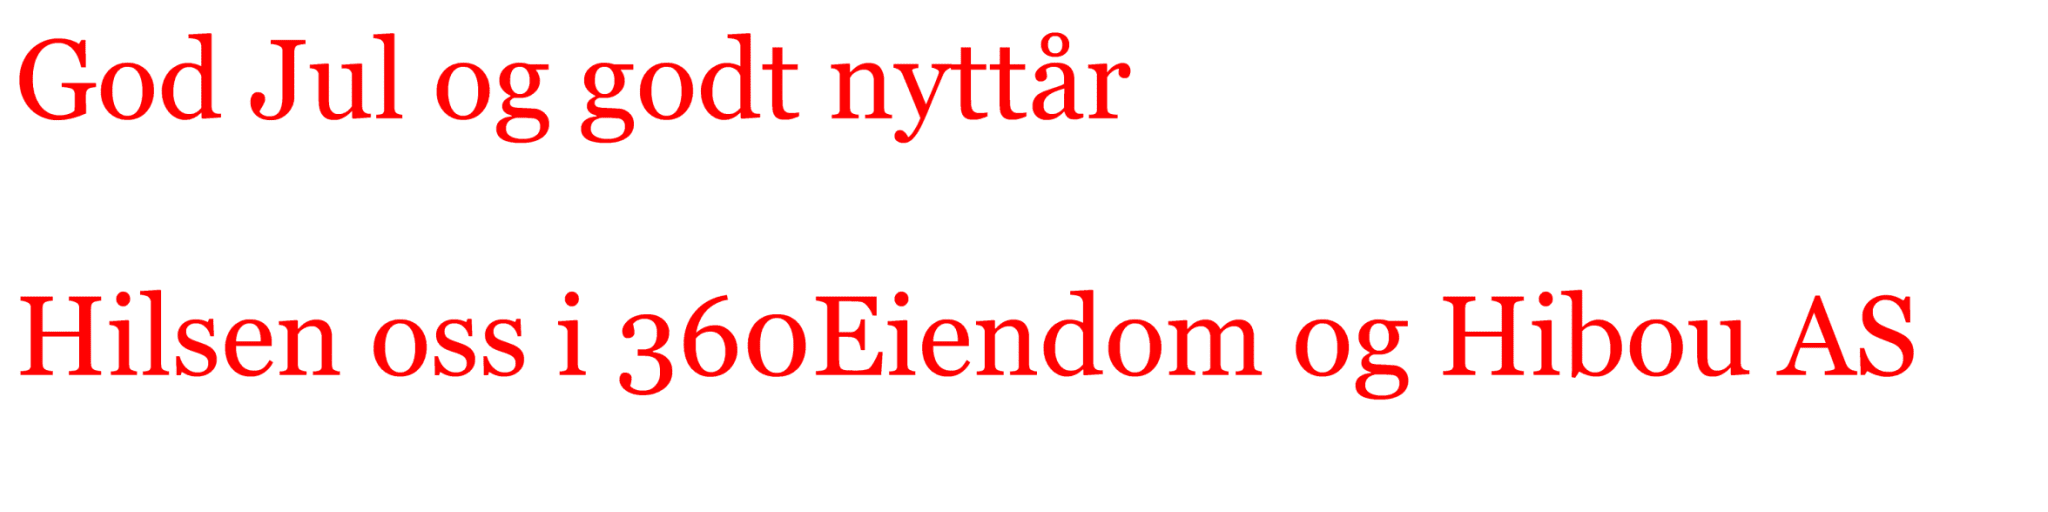
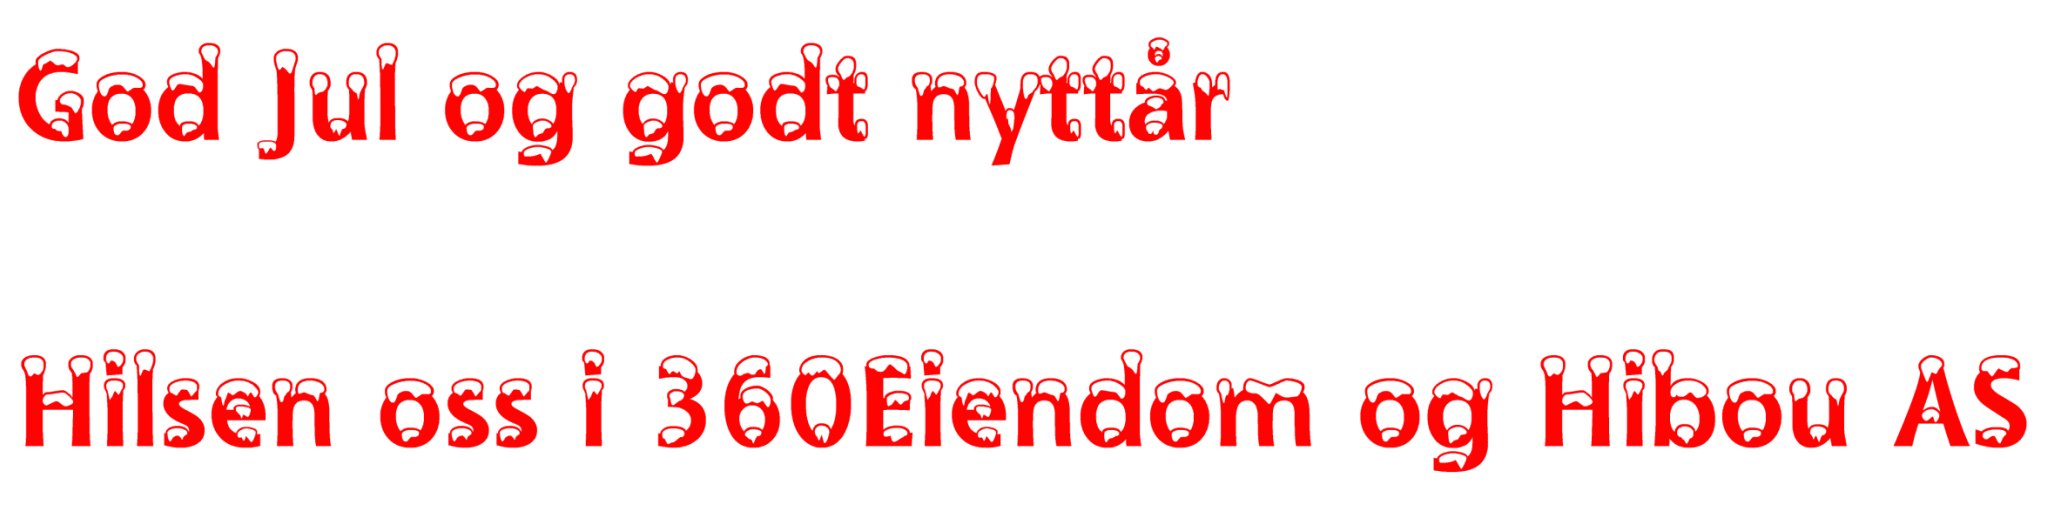
more christmasy font

diff --git a/julehilsen/script_general.js b/julehilsen/script_general.js
@@ -243,7 +243,7 @@
         player['get']('data')['translateObjs'] = a;
         return d;
     }
-    var b = {"scrollBarWidth":10,"paddingBottom":0,"id":"rootPlayer","gap":10,"verticalAlign":"top","width":"100%","paddingLeft":0,"start":"this.init()","backgroundOpacity":1,"children":["this.MainViewer"],"backgroundPreloadEnabled":true,"scrollBarColor":"#000000","paddingRight":0,"borderRadius":0,"definitions": [{"partial":false,"label":trans('panorama_8D966106_8691_281A_41DA_60CD8653C84E.label'),"frames":[{"class":"CubicPanoramaFrame","cube":{"class":"ImageResource","levels":[{"class":"TiledImageResourceLevel","width":24576,"colCount":48,"url":"media/panorama_8D966106_8691_281A_41DA_60CD8653C84E_0/{face}/0/{row}_{column}.jpg","rowCount":8,"tags":"ondemand","height":4096},{"class":"TiledImageResourceLevel","width":12288,"colCount":24,"url":"media/panorama_8D966106_8691_281A_41DA_60CD8653C84E_0/{face}/1/{row}_{column}.jpg","rowCount":4,"tags":"ondemand","height":2048},{"class":"TiledImageResourceLevel","width":6144,"colCount":12,"url":"media/panorama_8D966106_8691_281A_41DA_60CD8653C84E_0/{face}/2/{row}_{column}.jpg","rowCount":2,"tags":"ondemand","height":1024},{"class":"TiledImageResourceLevel","width":3072,"colCount":6,"url":"media/panorama_8D966106_8691_281A_41DA_60CD8653C84E_0/{face}/3/{row}_{column}.jpg","rowCount":1,"tags":["ondemand","preload"],"height":512},{"class":"TiledImageResourceLevel","width":9216,"colCount":6,"url":"media/panorama_8D966106_8691_281A_41DA_60CD8653C84E_0/{face}/vr/0.jpg","rowCount":1,"tags":"mobilevr","height":1536}]},"thumbnailUrl":"media/panorama_8D966106_8691_281A_41DA_60CD8653C84E_t.jpg"}],"id":"panorama_8D966106_8691_281A_41DA_60CD8653C84E","thumbnailUrl":"media/panorama_8D966106_8691_281A_41DA_60CD8653C84E_t.jpg","vfov":120,"hfov":360,"pitch":0,"audios":["this.audio_97849971_8690_F8F6_41DE_85A20917D60F"],"overlays":["this.overlay_8ABD97C0_8691_2816_41D5_A66701826902","this.overlay_9775BD43_8691_181A_41D3_41D6AD8634CC"],"class":"Panorama","data":{"label":"shutterstock_1271979601"},"hfovMax":130},{"class":"PanoramaAudio","loop":false,"audio":"this.audiores_973CCE29_8691_3816_41C2_DF5B6D062538","data":{"label":"414673__lena-orsa__a-christmas-tale"},"id":"audio_97849971_8690_F8F6_41DE_85A20917D60F","autoplay":true},{"class":"PanoramaPlayer","touchControlMode":"drag_rotation","gyroscopeVerticalDraggingEnabled":true,"surfaceSelectionEnabled":false,"viewerArea":"this.MainViewer","mouseControlMode":"drag_rotation","id":"MainViewerPanoramaPlayer","zoomEnabled":true,"arrowKeysAction":"translate","displayPlaybackBar":true},{"class":"PanoramaCamera","initialPosition":{"class":"PanoramaCameraPosition","yaw":0,"pitch":0},"automaticZoomSpeed":10,"id":"panorama_8D966106_8691_281A_41DA_60CD8653C84E_camera","initialSequence":"this.sequence_8F52B8D5_8691_F83E_41C4_08F459ABFD6E"},{"subtitlesTextShadowVerticalLength":1,"progressBottom":0,"data":{"name":"Main Viewer"},"progressBackgroundColorRatios":[0],"id":"MainViewer","playbackBarHeadHeight":15,"playbackBarProgressBackgroundColor":["#3399FF"],"width":"100%","playbackBarHeadShadowColor":"#000000","playbackBarProgressBorderRadius":0,"progressRight":0,"progressBackgroundColorDirection":"vertical","doubleClickAction":"toggle_fullscreen","toolTipBackgroundColor":"#F6F6F6","playbackBarHeadBackgroundColorRatios":[0,1],"progressLeft":0,"transitionMode":"blending","transitionDuration":500,"playbackBarHeadShadowOpacity":0.7,"subtitlesFontFamily":"Arial","progressOpacity":1,"borderSize":0,"playbackBarHeadShadowHorizontalLength":0,"progressHeight":10,"toolTipShadowOpacity":1,"progressBarBackgroundColorDirection":"vertical","playbackBarHeadBorderSize":0,"subtitlesPaddingTop":5,"toolTipShadowVerticalLength":0,"playbackBarHeadShadow":true,"height":"100%","toolTipShadowBlurRadius":3,"subtitlesShadow":false,"toolTipBorderRadius":3,"toolTipDisplayTime":600,"playbackBarProgressBackgroundColorRatios":[0],"playbackBarHeadOpacity":1,"toolTipFontStyle":"normal","progressBorderSize":0,"playbackBarBorderColor":"#FFFFFF","toolTipShadowColor":"#333333","propagateClick":false,"subtitlesTextShadowHorizontalLength":1,"toolTipTextShadowColor":"#000000","subtitlesBackgroundColor":"#000000","toolTipFontFamily":"Arial","shadow":false,"playbackBarBorderRadius":0,"playbackBarOpacity":1,"progressBarBorderRadius":0,"progressBorderColor":"#000000","playbackBarProgressBorderColor":"#000000","paddingTop":0,"toolTipBorderSize":1,"paddingBottom":0,"subtitlesHorizontalAlign":"center","toolTipPaddingTop":4,"playbackBarHeadBackgroundColor":["#111111","#666666"],"vrPointerSelectionTime":2000,"firstTransitionDuration":0,"progressBarBackgroundColor":["#3399FF"],"subtitlesBorderSize":0,"toolTipFontSize":"1.11vmin","subtitlesOpacity":1,"subtitlesTop":0,"playbackBarBottom":5,"playbackBarHeadShadowVerticalLength":0,"paddingLeft":0,"subtitlesFontColor":"#FFFFFF","subtitlesTextShadowOpacity":1,"subtitlesVerticalAlign":"bottom","progressBarBorderColor":"#000000","toolTipPaddingLeft":6,"toolTipTextShadowOpacity":0,"playbackBarProgressBackgroundColorDirection":"vertical","surfaceReticleSelectionColor":"#FFFFFF","paddingRight":0,"surfaceReticleSelectionOpacity":1,"borderRadius":0,"subtitlesFontWeight":"normal","progressBarBorderSize":0,"playbackBarHeadBorderRadius":0,"toolTipFontColor":"#606060","playbackBarBackgroundColor":["#FFFFFF"],"subtitlesTextShadowColor":"#000000","playbackBarProgressOpacity":1,"displayTooltipInTouchScreens":true,"progressBackgroundOpacity":1,"progressBackgroundColor":["#FFFFFF"],"class":"ViewerArea","vrPointerColor":"#FFFFFF","playbackBarHeadBackgroundColorDirection":"vertical","playbackBarHeight":10,"subtitlesFontSize":"3vmin","playbackBarHeadBorderColor":"#000000","playbackBarBorderSize":0,"playbackBarHeadWidth":6,"surfaceReticleColor":"#FFFFFF","toolTipFontWeight":"normal","toolTipPaddingBottom":4,"subtitlesPaddingRight":5,"surfaceReticleOpacity":0.6,"subtitlesPaddingBottom":5,"progressBarOpacity":1,"toolTipBorderColor":"#767676","minHeight":50,"playbackBarBackgroundOpacity":1,"minWidth":100,"toolTipHorizontalAlign":"center","toolTipShadowSpread":0,"subtitlesGap":0,"subtitlesBackgroundOpacity":0.2,"progressBorderRadius":0,"subtitlesBottom":50,"toolTipTextShadowBlurRadius":3,"subtitlesBorderColor":"#FFFFFF","subtitlesPaddingLeft":5,"subtitlesTextDecoration":"none","playbackBarProgressBorderSize":0,"vrPointerSelectionColor":"#FF6600","toolTipOpacity":1,"toolTipShadowHorizontalLength":0,"displayTooltipInSurfaceSelection":true,"playbackBarBackgroundColorDirection":"vertical","playbackBarHeadShadowBlurRadius":3,"playbackBarLeft":0,"toolTipPaddingRight":6,"progressBarBackgroundColorRatios":[0],"playbackBarRight":0,"subtitlesTextShadowBlurRadius":0},{"class":"PlayList","items":[{"class":"PanoramaPlayListItem","media":"this.panorama_8D966106_8691_281A_41DA_60CD8653C84E","end":"this.trigger('tourEnded')","player":"this.MainViewerPanoramaPlayer","camera":"this.panorama_8D966106_8691_281A_41DA_60CD8653C84E_camera"}],"id":"mainPlayList"},{"class":"SnowPanoramaOverlay","id":"overlay_8ABD97C0_8691_2816_41D5_A66701826902","intensity":0.36,"speed":0.25},{"class":"HotspotPanoramaOverlay","rollOverDisplay":false,"areas":["this.HotspotPanoramaOverlayArea_9775FD43_8691_181A_41D9_7D9581EE1602"],"useHandCursor":true,"enabledInCardboard":true,"items":[{"image":{"class":"ImageResource","levels":[{"class":"ImageResourceLevel","url":"media/panorama_8D966106_8691_281A_41DA_60CD8653C84E_HS_gu936f0t.png","width":2048,"height":512}]},"pitch":-24.41,"yaw":112.67,"hfov":62.22,"data":{"label":"Text"},"class":"HotspotPanoramaOverlayImage","distance":50}],"id":"overlay_9775BD43_8691_181A_41D3_41D6AD8634CC","data":{"label":"Text"},"maps":[]},{"class":"AudioResource","oggUrl":"media/audio_97849971_8690_F8F6_41DE_85A20917D60F.ogg","id":"audiores_973CCE29_8691_3816_41C2_DF5B6D062538","mp3Url":"media/audio_97849971_8690_F8F6_41DE_85A20917D60F.mp3"},{"class":"PanoramaCameraSequence","movements":[{"class":"DistancePanoramaCameraMovement","easing":"cubic_in","yawDelta":18.5,"yawSpeed":7.96},{"class":"DistancePanoramaCameraMovement","easing":"linear","yawDelta":323,"yawSpeed":7.96},{"class":"DistancePanoramaCameraMovement","easing":"cubic_out","yawDelta":18.5,"yawSpeed":7.96}],"id":"sequence_8F52B8D5_8691_F83E_41C4_08F459ABFD6E","restartMovementOnUserInteraction":false},{"class":"HotspotPanoramaOverlayArea","mapColor":"any","id":"HotspotPanoramaOverlayArea_9775FD43_8691_181A_41D9_7D9581EE1602"}],"desktopMipmappingEnabled":false,"horizontalAlign":"left","overflow":"hidden","borderSize":0,"defaultVRPointer":"laser","class":"Player","scrollBarMargin":2,"backgroundColor":["#FFFFFF"],"vrPolyfillScale":0.75,"mediaActivationMode":"window","contentOpaque":false,"scripts":{"updateVideoCues":TDV.Tour.Script.updateVideoCues,"visibleComponentsIfPlayerFlagEnabled":TDV.Tour.Script.visibleComponentsIfPlayerFlagEnabled,"pauseGlobalAudio":TDV.Tour.Script.pauseGlobalAudio,"registerKey":TDV.Tour.Script.registerKey,"pauseGlobalAudios":TDV.Tour.Script.pauseGlobalAudios,"autotriggerAtStart":TDV.Tour.Script.autotriggerAtStart,"playAudioList":TDV.Tour.Script.playAudioList,"changeBackgroundWhilePlay":TDV.Tour.Script.changeBackgroundWhilePlay,"playGlobalAudioWhilePlay":TDV.Tour.Script.playGlobalAudioWhilePlay,"unregisterKey":TDV.Tour.Script.unregisterKey,"changePlayListWithSameSpot":TDV.Tour.Script.changePlayListWithSameSpot,"playGlobalAudio":TDV.Tour.Script.playGlobalAudio,"existsKey":TDV.Tour.Script.existsKey,"cloneCamera":TDV.Tour.Script.cloneCamera,"copyObjRecursively":TDV.Tour.Script.copyObjRecursively,"quizSetItemFound":TDV.Tour.Script.quizSetItemFound,"setValue":TDV.Tour.Script.setValue,"quizShowQuestion":TDV.Tour.Script.quizShowQuestion,"executeFunctionWhenChange":TDV.Tour.Script.executeFunctionWhenChange,"getPixels":TDV.Tour.Script.getPixels,"quizShowScore":TDV.Tour.Script.quizShowScore,"init":TDV.Tour.Script.init,"setLocale":TDV.Tour.Script.setLocale,"getActiveMediaWithViewer":TDV.Tour.Script.getActiveMediaWithViewer,"getActivePlayerWithViewer":TDV.Tour.Script.getActivePlayerWithViewer,"resumePlayers":TDV.Tour.Script.resumePlayers,"quizShowTimeout":TDV.Tour.Script.quizShowTimeout,"getCurrentPlayerWithMedia":TDV.Tour.Script.getCurrentPlayerWithMedia,"resumeGlobalAudios":TDV.Tour.Script.resumeGlobalAudios,"getCurrentPlayers":TDV.Tour.Script.getCurrentPlayers,"mixObject":TDV.Tour.Script.mixObject,"quizStart":TDV.Tour.Script.quizStart,"getGlobalAudio":TDV.Tour.Script.getGlobalAudio,"stopGlobalAudio":TDV.Tour.Script.stopGlobalAudio,"quizFinish":TDV.Tour.Script.quizFinish,"stopGlobalAudios":TDV.Tour.Script.stopGlobalAudios,"stopTextToSpeech":TDV.Tour.Script.stopTextToSpeech,"getKey":TDV.Tour.Script.getKey,"sendAnalyticsData":TDV.Tour.Script.sendAnalyticsData,"setCameraSameSpotAsMedia":TDV.Tour.Script.setCameraSameSpotAsMedia,"getMediaByName":TDV.Tour.Script.getMediaByName,"getMediaFromPlayer":TDV.Tour.Script.getMediaFromPlayer,"setComponentVisibility":TDV.Tour.Script.setComponentVisibility,"getMediaWidth":TDV.Tour.Script.getMediaWidth,"textToSpeech":TDV.Tour.Script.textToSpeech,"getMediaHeight":TDV.Tour.Script.getMediaHeight,"setEndToItemIndex":TDV.Tour.Script.setEndToItemIndex,"getOverlays":TDV.Tour.Script.getOverlays,"getPanoramaOverlayByName":TDV.Tour.Script.getPanoramaOverlayByName,"setMainMediaByIndex":TDV.Tour.Script.setMainMediaByIndex,"openLink":TDV.Tour.Script.openLink,"setMainMediaByName":TDV.Tour.Script.setMainMediaByName,"setMapLocation":TDV.Tour.Script.setMapLocation,"getComponentByName":TDV.Tour.Script.getComponentByName,"_getPlayListsWithViewer":TDV.Tour.Script._getPlayListsWithViewer,"getPlayListsWithMedia":TDV.Tour.Script.getPlayListsWithMedia,"setMediaBehaviour":TDV.Tour.Script.setMediaBehaviour,"getPlayListWithItem":TDV.Tour.Script.getPlayListWithItem,"setPanoramaCameraWithCurrentSpot":TDV.Tour.Script.setPanoramaCameraWithCurrentSpot,"setOverlayBehaviour":TDV.Tour.Script.setOverlayBehaviour,"getFirstPlayListWithMedia":TDV.Tour.Script.getFirstPlayListWithMedia,"setPanoramaCameraWithSpot":TDV.Tour.Script.setPanoramaCameraWithSpot,"getPlayListItems":TDV.Tour.Script.getPlayListItems,"setSurfaceSelectionHotspotMode":TDV.Tour.Script.setSurfaceSelectionHotspotMode,"getPlayListItemByMedia":TDV.Tour.Script.getPlayListItemByMedia,"historyGoBack":TDV.Tour.Script.historyGoBack,"setStartTimeVideo":TDV.Tour.Script.setStartTimeVideo,"historyGoForward":TDV.Tour.Script.historyGoForward,"setStartTimeVideoSync":TDV.Tour.Script.setStartTimeVideoSync,"fixTogglePlayPauseButton":TDV.Tour.Script.fixTogglePlayPauseButton,"htmlToPlainText":TDV.Tour.Script.htmlToPlainText,"skip3DTransitionOnce":TDV.Tour.Script.skip3DTransitionOnce,"shareSocial":TDV.Tour.Script.shareSocial,"getMainViewer":TDV.Tour.Script.getMainViewer,"initGA":TDV.Tour.Script.initGA,"showComponentsWhileMouseOver":TDV.Tour.Script.showComponentsWhileMouseOver,"initQuiz":TDV.Tour.Script.initQuiz,"showPopupMedia":TDV.Tour.Script.showPopupMedia,"_initSplitViewer":TDV.Tour.Script._initSplitViewer,"showPopupImage":TDV.Tour.Script.showPopupImage,"assignObjRecursively":TDV.Tour.Script.assignObjRecursively,"showPopupPanoramaOverlay":TDV.Tour.Script.showPopupPanoramaOverlay,"isCardboardViewMode":TDV.Tour.Script.isCardboardViewMode,"showPopupPanoramaVideoOverlay":TDV.Tour.Script.showPopupPanoramaVideoOverlay,"_initTwinsViewer":TDV.Tour.Script._initTwinsViewer,"isPanorama":TDV.Tour.Script.isPanorama,"showWindow":TDV.Tour.Script.showWindow,"keepCompVisible":TDV.Tour.Script.keepCompVisible,"startPanoramaWithCamera":TDV.Tour.Script.startPanoramaWithCamera,"_initItemWithComps":TDV.Tour.Script._initItemWithComps,"stopAndGoCamera":TDV.Tour.Script.stopAndGoCamera,"translate":TDV.Tour.Script.translate,"syncPlaylists":TDV.Tour.Script.syncPlaylists,"loadFromCurrentMediaPlayList":TDV.Tour.Script.loadFromCurrentMediaPlayList,"_initTTSTooltips":TDV.Tour.Script._initTTSTooltips,"textToSpeechComponent":TDV.Tour.Script.textToSpeechComponent,"openEmbeddedPDF":TDV.Tour.Script.openEmbeddedPDF,"triggerOverlay":TDV.Tour.Script.triggerOverlay,"pauseCurrentPlayers":TDV.Tour.Script.pauseCurrentPlayers,"updateDeepLink":TDV.Tour.Script.updateDeepLink,"pauseGlobalAudiosWhilePlayItem":TDV.Tour.Script.pauseGlobalAudiosWhilePlayItem,"updateMediaLabelFromPlayList":TDV.Tour.Script.updateMediaLabelFromPlayList},"minHeight":20,"downloadEnabled":false,"backgroundColorRatios":[0],"minWidth":20,"toolTipHorizontalAlign":"center","scrollBarOpacity":0.5,"propagateClick":false,"mouseWheelEnabled":true,"layout":"absolute","scrollBarVisible":"rollOver","mobileMipmappingEnabled":false,"shadow":false,"paddingTop":0,"data":{"name":"Player832","defaultLocale":"en","textToSpeechConfig":{"speechOnInfoWindow":false,"pitch":1,"speechOnTooltip":false,"speechOnQuizQuestion":false,"volume":1,"rate":1},"locales":{"en":"locale/en.txt"}},"backgroundColorDirection":"vertical","height":"100%"};
+    var b = {"scrollBarWidth":10,"paddingBottom":0,"id":"rootPlayer","gap":10,"verticalAlign":"top","width":"100%","paddingLeft":0,"start":"this.init()","backgroundOpacity":1,"children":["this.MainViewer"],"backgroundPreloadEnabled":true,"scrollBarColor":"#000000","paddingRight":0,"borderRadius":0,"definitions": [{"partial":false,"label":trans('panorama_8D966106_8691_281A_41DA_60CD8653C84E.label'),"frames":[{"class":"CubicPanoramaFrame","cube":{"class":"ImageResource","levels":[{"class":"TiledImageResourceLevel","width":24576,"colCount":48,"url":"media/panorama_8D966106_8691_281A_41DA_60CD8653C84E_0/{face}/0/{row}_{column}.jpg","rowCount":8,"tags":"ondemand","height":4096},{"class":"TiledImageResourceLevel","width":12288,"colCount":24,"url":"media/panorama_8D966106_8691_281A_41DA_60CD8653C84E_0/{face}/1/{row}_{column}.jpg","rowCount":4,"tags":"ondemand","height":2048},{"class":"TiledImageResourceLevel","width":6144,"colCount":12,"url":"media/panorama_8D966106_8691_281A_41DA_60CD8653C84E_0/{face}/2/{row}_{column}.jpg","rowCount":2,"tags":"ondemand","height":1024},{"class":"TiledImageResourceLevel","width":3072,"colCount":6,"url":"media/panorama_8D966106_8691_281A_41DA_60CD8653C84E_0/{face}/3/{row}_{column}.jpg","rowCount":1,"tags":["ondemand","preload"],"height":512},{"class":"TiledImageResourceLevel","width":9216,"colCount":6,"url":"media/panorama_8D966106_8691_281A_41DA_60CD8653C84E_0/{face}/vr/0.jpg","rowCount":1,"tags":"mobilevr","height":1536}]},"thumbnailUrl":"media/panorama_8D966106_8691_281A_41DA_60CD8653C84E_t.jpg"}],"id":"panorama_8D966106_8691_281A_41DA_60CD8653C84E","thumbnailUrl":"media/panorama_8D966106_8691_281A_41DA_60CD8653C84E_t.jpg","vfov":120,"hfov":360,"pitch":0,"audios":["this.audio_97849971_8690_F8F6_41DE_85A20917D60F"],"overlays":["this.overlay_8ABD97C0_8691_2816_41D5_A66701826902","this.overlay_9775BD43_8691_181A_41D3_41D6AD8634CC"],"class":"Panorama","data":{"label":"shutterstock_1271979601"},"hfovMax":130},{"class":"PanoramaAudio","loop":false,"audio":"this.audiores_973CCE29_8691_3816_41C2_DF5B6D062538","data":{"label":"414673__lena-orsa__a-christmas-tale"},"id":"audio_97849971_8690_F8F6_41DE_85A20917D60F","autoplay":true},{"class":"PanoramaCamera","initialPosition":{"class":"PanoramaCameraPosition","yaw":0,"pitch":0},"automaticZoomSpeed":10,"id":"panorama_8D966106_8691_281A_41DA_60CD8653C84E_camera","initialSequence":"this.sequence_8F52B8D5_8691_F83E_41C4_08F459ABFD6E"},{"subtitlesTextShadowVerticalLength":1,"progressBottom":0,"data":{"name":"Main Viewer"},"progressBackgroundColorRatios":[0],"id":"MainViewer","playbackBarHeadHeight":15,"playbackBarProgressBackgroundColor":["#3399FF"],"width":"100%","playbackBarHeadShadowColor":"#000000","playbackBarProgressBorderRadius":0,"progressRight":0,"progressBackgroundColorDirection":"vertical","doubleClickAction":"toggle_fullscreen","toolTipBackgroundColor":"#F6F6F6","playbackBarHeadBackgroundColorRatios":[0,1],"progressLeft":0,"transitionMode":"blending","transitionDuration":500,"playbackBarHeadShadowOpacity":0.7,"subtitlesFontFamily":"Arial","progressOpacity":1,"borderSize":0,"playbackBarHeadShadowHorizontalLength":0,"progressHeight":10,"toolTipShadowOpacity":1,"progressBarBackgroundColorDirection":"vertical","playbackBarHeadBorderSize":0,"subtitlesPaddingTop":5,"toolTipShadowVerticalLength":0,"playbackBarHeadShadow":true,"height":"100%","toolTipShadowBlurRadius":3,"subtitlesShadow":false,"toolTipBorderRadius":3,"toolTipDisplayTime":600,"playbackBarProgressBackgroundColorRatios":[0],"playbackBarHeadOpacity":1,"toolTipFontStyle":"normal","progressBorderSize":0,"playbackBarBorderColor":"#FFFFFF","toolTipShadowColor":"#333333","propagateClick":false,"subtitlesTextShadowHorizontalLength":1,"toolTipTextShadowColor":"#000000","subtitlesBackgroundColor":"#000000","toolTipFontFamily":"Arial","shadow":false,"playbackBarBorderRadius":0,"playbackBarOpacity":1,"progressBarBorderRadius":0,"progressBorderColor":"#000000","playbackBarProgressBorderColor":"#000000","paddingTop":0,"toolTipBorderSize":1,"paddingBottom":0,"subtitlesHorizontalAlign":"center","toolTipPaddingTop":4,"playbackBarHeadBackgroundColor":["#111111","#666666"],"vrPointerSelectionTime":2000,"firstTransitionDuration":0,"progressBarBackgroundColor":["#3399FF"],"subtitlesBorderSize":0,"toolTipFontSize":"1.11vmin","subtitlesOpacity":1,"subtitlesTop":0,"playbackBarBottom":5,"playbackBarHeadShadowVerticalLength":0,"paddingLeft":0,"subtitlesFontColor":"#FFFFFF","subtitlesTextShadowOpacity":1,"subtitlesVerticalAlign":"bottom","progressBarBorderColor":"#000000","toolTipPaddingLeft":6,"toolTipTextShadowOpacity":0,"playbackBarProgressBackgroundColorDirection":"vertical","surfaceReticleSelectionColor":"#FFFFFF","paddingRight":0,"surfaceReticleSelectionOpacity":1,"borderRadius":0,"subtitlesFontWeight":"normal","progressBarBorderSize":0,"playbackBarHeadBorderRadius":0,"toolTipFontColor":"#606060","playbackBarBackgroundColor":["#FFFFFF"],"subtitlesTextShadowColor":"#000000","playbackBarProgressOpacity":1,"displayTooltipInTouchScreens":true,"progressBackgroundOpacity":1,"progressBackgroundColor":["#FFFFFF"],"class":"ViewerArea","vrPointerColor":"#FFFFFF","playbackBarHeadBackgroundColorDirection":"vertical","playbackBarHeight":10,"subtitlesFontSize":"3vmin","playbackBarHeadBorderColor":"#000000","playbackBarBorderSize":0,"playbackBarHeadWidth":6,"surfaceReticleColor":"#FFFFFF","toolTipFontWeight":"normal","toolTipPaddingBottom":4,"subtitlesPaddingRight":5,"surfaceReticleOpacity":0.6,"subtitlesPaddingBottom":5,"progressBarOpacity":1,"toolTipBorderColor":"#767676","minHeight":50,"playbackBarBackgroundOpacity":1,"minWidth":100,"toolTipHorizontalAlign":"center","toolTipShadowSpread":0,"subtitlesGap":0,"subtitlesBackgroundOpacity":0.2,"progressBorderRadius":0,"subtitlesBottom":50,"toolTipTextShadowBlurRadius":3,"subtitlesBorderColor":"#FFFFFF","subtitlesPaddingLeft":5,"subtitlesTextDecoration":"none","playbackBarProgressBorderSize":0,"vrPointerSelectionColor":"#FF6600","toolTipOpacity":1,"toolTipShadowHorizontalLength":0,"displayTooltipInSurfaceSelection":true,"playbackBarBackgroundColorDirection":"vertical","playbackBarHeadShadowBlurRadius":3,"playbackBarLeft":0,"toolTipPaddingRight":6,"progressBarBackgroundColorRatios":[0],"playbackBarRight":0,"subtitlesTextShadowBlurRadius":0},{"class":"PanoramaPlayer","touchControlMode":"drag_rotation","gyroscopeVerticalDraggingEnabled":true,"surfaceSelectionEnabled":false,"viewerArea":"this.MainViewer","mouseControlMode":"drag_rotation","id":"MainViewerPanoramaPlayer","zoomEnabled":true,"arrowKeysAction":"translate","displayPlaybackBar":true},{"class":"PlayList","items":[{"class":"PanoramaPlayListItem","media":"this.panorama_8D966106_8691_281A_41DA_60CD8653C84E","end":"this.trigger('tourEnded')","player":"this.MainViewerPanoramaPlayer","camera":"this.panorama_8D966106_8691_281A_41DA_60CD8653C84E_camera"}],"id":"mainPlayList"},{"class":"SnowPanoramaOverlay","id":"overlay_8ABD97C0_8691_2816_41D5_A66701826902","intensity":0.36,"speed":0.25},{"class":"HotspotPanoramaOverlay","rollOverDisplay":false,"areas":["this.HotspotPanoramaOverlayArea_9775FD43_8691_181A_41D9_7D9581EE1602"],"useHandCursor":true,"enabledInCardboard":true,"items":[{"image":{"class":"ImageResource","levels":[{"class":"ImageResourceLevel","url":"media/panorama_8D966106_8691_281A_41DA_60CD8653C84E_HS_gu936f0t.png","width":2048,"height":512}]},"pitch":-24.41,"yaw":112.67,"hfov":62.22,"data":{"label":"Text"},"class":"HotspotPanoramaOverlayImage","distance":50}],"id":"overlay_9775BD43_8691_181A_41D3_41D6AD8634CC","data":{"label":"Text"},"maps":[]},{"class":"AudioResource","oggUrl":"media/audio_97849971_8690_F8F6_41DE_85A20917D60F.ogg","id":"audiores_973CCE29_8691_3816_41C2_DF5B6D062538","mp3Url":"media/audio_97849971_8690_F8F6_41DE_85A20917D60F.mp3"},{"class":"PanoramaCameraSequence","movements":[{"class":"DistancePanoramaCameraMovement","easing":"cubic_in","yawDelta":18.5,"yawSpeed":7.96},{"class":"DistancePanoramaCameraMovement","easing":"linear","yawDelta":323,"yawSpeed":7.96},{"class":"DistancePanoramaCameraMovement","easing":"cubic_out","yawDelta":18.5,"yawSpeed":7.96}],"id":"sequence_8F52B8D5_8691_F83E_41C4_08F459ABFD6E","restartMovementOnUserInteraction":false},{"class":"HotspotPanoramaOverlayArea","mapColor":"any","id":"HotspotPanoramaOverlayArea_9775FD43_8691_181A_41D9_7D9581EE1602"}],"desktopMipmappingEnabled":false,"horizontalAlign":"left","overflow":"hidden","borderSize":0,"defaultVRPointer":"laser","class":"Player","scrollBarMargin":2,"backgroundColor":["#FFFFFF"],"vrPolyfillScale":0.75,"mediaActivationMode":"window","contentOpaque":false,"scripts":{"updateVideoCues":TDV.Tour.Script.updateVideoCues,"visibleComponentsIfPlayerFlagEnabled":TDV.Tour.Script.visibleComponentsIfPlayerFlagEnabled,"pauseGlobalAudio":TDV.Tour.Script.pauseGlobalAudio,"registerKey":TDV.Tour.Script.registerKey,"pauseGlobalAudios":TDV.Tour.Script.pauseGlobalAudios,"autotriggerAtStart":TDV.Tour.Script.autotriggerAtStart,"playAudioList":TDV.Tour.Script.playAudioList,"changeBackgroundWhilePlay":TDV.Tour.Script.changeBackgroundWhilePlay,"playGlobalAudioWhilePlay":TDV.Tour.Script.playGlobalAudioWhilePlay,"unregisterKey":TDV.Tour.Script.unregisterKey,"changePlayListWithSameSpot":TDV.Tour.Script.changePlayListWithSameSpot,"playGlobalAudio":TDV.Tour.Script.playGlobalAudio,"existsKey":TDV.Tour.Script.existsKey,"cloneCamera":TDV.Tour.Script.cloneCamera,"copyObjRecursively":TDV.Tour.Script.copyObjRecursively,"quizSetItemFound":TDV.Tour.Script.quizSetItemFound,"setValue":TDV.Tour.Script.setValue,"quizShowQuestion":TDV.Tour.Script.quizShowQuestion,"executeFunctionWhenChange":TDV.Tour.Script.executeFunctionWhenChange,"getPixels":TDV.Tour.Script.getPixels,"quizShowScore":TDV.Tour.Script.quizShowScore,"init":TDV.Tour.Script.init,"setLocale":TDV.Tour.Script.setLocale,"getActiveMediaWithViewer":TDV.Tour.Script.getActiveMediaWithViewer,"getActivePlayerWithViewer":TDV.Tour.Script.getActivePlayerWithViewer,"resumePlayers":TDV.Tour.Script.resumePlayers,"quizShowTimeout":TDV.Tour.Script.quizShowTimeout,"getCurrentPlayerWithMedia":TDV.Tour.Script.getCurrentPlayerWithMedia,"resumeGlobalAudios":TDV.Tour.Script.resumeGlobalAudios,"getCurrentPlayers":TDV.Tour.Script.getCurrentPlayers,"mixObject":TDV.Tour.Script.mixObject,"quizStart":TDV.Tour.Script.quizStart,"getGlobalAudio":TDV.Tour.Script.getGlobalAudio,"stopGlobalAudio":TDV.Tour.Script.stopGlobalAudio,"quizFinish":TDV.Tour.Script.quizFinish,"stopGlobalAudios":TDV.Tour.Script.stopGlobalAudios,"stopTextToSpeech":TDV.Tour.Script.stopTextToSpeech,"getKey":TDV.Tour.Script.getKey,"sendAnalyticsData":TDV.Tour.Script.sendAnalyticsData,"setCameraSameSpotAsMedia":TDV.Tour.Script.setCameraSameSpotAsMedia,"getMediaByName":TDV.Tour.Script.getMediaByName,"getMediaFromPlayer":TDV.Tour.Script.getMediaFromPlayer,"setComponentVisibility":TDV.Tour.Script.setComponentVisibility,"getMediaWidth":TDV.Tour.Script.getMediaWidth,"textToSpeech":TDV.Tour.Script.textToSpeech,"getMediaHeight":TDV.Tour.Script.getMediaHeight,"setEndToItemIndex":TDV.Tour.Script.setEndToItemIndex,"getOverlays":TDV.Tour.Script.getOverlays,"getPanoramaOverlayByName":TDV.Tour.Script.getPanoramaOverlayByName,"setMainMediaByIndex":TDV.Tour.Script.setMainMediaByIndex,"openLink":TDV.Tour.Script.openLink,"setMainMediaByName":TDV.Tour.Script.setMainMediaByName,"setMapLocation":TDV.Tour.Script.setMapLocation,"getComponentByName":TDV.Tour.Script.getComponentByName,"_getPlayListsWithViewer":TDV.Tour.Script._getPlayListsWithViewer,"getPlayListsWithMedia":TDV.Tour.Script.getPlayListsWithMedia,"setMediaBehaviour":TDV.Tour.Script.setMediaBehaviour,"getPlayListWithItem":TDV.Tour.Script.getPlayListWithItem,"setPanoramaCameraWithCurrentSpot":TDV.Tour.Script.setPanoramaCameraWithCurrentSpot,"setOverlayBehaviour":TDV.Tour.Script.setOverlayBehaviour,"getFirstPlayListWithMedia":TDV.Tour.Script.getFirstPlayListWithMedia,"setPanoramaCameraWithSpot":TDV.Tour.Script.setPanoramaCameraWithSpot,"getPlayListItems":TDV.Tour.Script.getPlayListItems,"setSurfaceSelectionHotspotMode":TDV.Tour.Script.setSurfaceSelectionHotspotMode,"getPlayListItemByMedia":TDV.Tour.Script.getPlayListItemByMedia,"historyGoBack":TDV.Tour.Script.historyGoBack,"setStartTimeVideo":TDV.Tour.Script.setStartTimeVideo,"historyGoForward":TDV.Tour.Script.historyGoForward,"setStartTimeVideoSync":TDV.Tour.Script.setStartTimeVideoSync,"fixTogglePlayPauseButton":TDV.Tour.Script.fixTogglePlayPauseButton,"htmlToPlainText":TDV.Tour.Script.htmlToPlainText,"skip3DTransitionOnce":TDV.Tour.Script.skip3DTransitionOnce,"shareSocial":TDV.Tour.Script.shareSocial,"getMainViewer":TDV.Tour.Script.getMainViewer,"initGA":TDV.Tour.Script.initGA,"showComponentsWhileMouseOver":TDV.Tour.Script.showComponentsWhileMouseOver,"initQuiz":TDV.Tour.Script.initQuiz,"showPopupMedia":TDV.Tour.Script.showPopupMedia,"_initSplitViewer":TDV.Tour.Script._initSplitViewer,"showPopupImage":TDV.Tour.Script.showPopupImage,"assignObjRecursively":TDV.Tour.Script.assignObjRecursively,"showPopupPanoramaOverlay":TDV.Tour.Script.showPopupPanoramaOverlay,"isCardboardViewMode":TDV.Tour.Script.isCardboardViewMode,"showPopupPanoramaVideoOverlay":TDV.Tour.Script.showPopupPanoramaVideoOverlay,"_initTwinsViewer":TDV.Tour.Script._initTwinsViewer,"isPanorama":TDV.Tour.Script.isPanorama,"showWindow":TDV.Tour.Script.showWindow,"keepCompVisible":TDV.Tour.Script.keepCompVisible,"startPanoramaWithCamera":TDV.Tour.Script.startPanoramaWithCamera,"_initItemWithComps":TDV.Tour.Script._initItemWithComps,"stopAndGoCamera":TDV.Tour.Script.stopAndGoCamera,"translate":TDV.Tour.Script.translate,"syncPlaylists":TDV.Tour.Script.syncPlaylists,"loadFromCurrentMediaPlayList":TDV.Tour.Script.loadFromCurrentMediaPlayList,"_initTTSTooltips":TDV.Tour.Script._initTTSTooltips,"textToSpeechComponent":TDV.Tour.Script.textToSpeechComponent,"openEmbeddedPDF":TDV.Tour.Script.openEmbeddedPDF,"triggerOverlay":TDV.Tour.Script.triggerOverlay,"pauseCurrentPlayers":TDV.Tour.Script.pauseCurrentPlayers,"updateDeepLink":TDV.Tour.Script.updateDeepLink,"pauseGlobalAudiosWhilePlayItem":TDV.Tour.Script.pauseGlobalAudiosWhilePlayItem,"updateMediaLabelFromPlayList":TDV.Tour.Script.updateMediaLabelFromPlayList},"minHeight":20,"downloadEnabled":false,"backgroundColorRatios":[0],"minWidth":20,"toolTipHorizontalAlign":"center","scrollBarOpacity":0.5,"propagateClick":false,"mouseWheelEnabled":true,"layout":"absolute","scrollBarVisible":"rollOver","mobileMipmappingEnabled":false,"shadow":false,"paddingTop":0,"data":{"name":"Player832","defaultLocale":"en","textToSpeechConfig":{"speechOnInfoWindow":false,"pitch":1,"speechOnTooltip":false,"speechOnQuizQuestion":false,"volume":1,"rate":1},"locales":{"en":"locale/en.txt"}},"backgroundColorDirection":"vertical","height":"100%"};
     if (b['data'] == undefined)
         b['data'] = {};
     b['data']['translateObjs'] = a;

diff --git a/julehilsen/index.html b/julehilsen/index.html
@@ -4,14 +4,14 @@
     <title>Untitled 5</title>
     <meta http-equiv="Content-Type" content="text/html; charset=UTF-8" />
     <meta name="viewport" id="metaViewport" content="user-scalable=no, initial-scale=1, width=device-width, viewport-fit=cover" data-tdv-general-scale="0.5"/>
-    <link rel="preload" href="script.js?v=1608578595414" as="script"/>
-	<link rel="preload" href="media/panorama_8D966106_8691_281A_41DA_60CD8653C84E_0/r/3/0_0.jpg?v=1608578595414" as="image"/>
-	<link rel="preload" href="media/panorama_8D966106_8691_281A_41DA_60CD8653C84E_0/l/3/0_0.jpg?v=1608578595414" as="image"/>
-	<link rel="preload" href="media/panorama_8D966106_8691_281A_41DA_60CD8653C84E_0/u/3/0_0.jpg?v=1608578595414" as="image"/>
-	<link rel="preload" href="media/panorama_8D966106_8691_281A_41DA_60CD8653C84E_0/d/3/0_0.jpg?v=1608578595414" as="image"/>
-	<link rel="preload" href="media/panorama_8D966106_8691_281A_41DA_60CD8653C84E_0/f/3/0_0.jpg?v=1608578595414" as="image"/>
-	<link rel="preload" href="media/panorama_8D966106_8691_281A_41DA_60CD8653C84E_0/b/3/0_0.jpg?v=1608578595414" as="image"/>
-	<link rel="preload" href="locale/en.txt?v=1608578595414" as="fetch" crossorigin="anonymous"/>
+    <link rel="preload" href="script.js?v=1608579084424" as="script"/>
+	<link rel="preload" href="media/panorama_8D966106_8691_281A_41DA_60CD8653C84E_0/r/3/0_0.jpg?v=1608579084424" as="image"/>
+	<link rel="preload" href="media/panorama_8D966106_8691_281A_41DA_60CD8653C84E_0/l/3/0_0.jpg?v=1608579084424" as="image"/>
+	<link rel="preload" href="media/panorama_8D966106_8691_281A_41DA_60CD8653C84E_0/u/3/0_0.jpg?v=1608579084424" as="image"/>
+	<link rel="preload" href="media/panorama_8D966106_8691_281A_41DA_60CD8653C84E_0/d/3/0_0.jpg?v=1608579084424" as="image"/>
+	<link rel="preload" href="media/panorama_8D966106_8691_281A_41DA_60CD8653C84E_0/f/3/0_0.jpg?v=1608579084424" as="image"/>
+	<link rel="preload" href="media/panorama_8D966106_8691_281A_41DA_60CD8653C84E_0/b/3/0_0.jpg?v=1608579084424" as="image"/>
+	<link rel="preload" href="locale/en.txt?v=1608579084424" as="fetch" crossorigin="anonymous"/>
 	<meta property="og:title" content="Untitled 5" />
 	<meta property="og:type" content="website" />
 	<meta property="og:description" content="Virtual Tour" />
@@ -20,24 +20,24 @@
 	<meta property="og:image:width" content="1200" />
 	<meta property="og:image:height" content="630" />
 	<meta property="fb:app_id" content="817622095004141" />
-	<link rel="image_src" href="https://demo.360eiendom.no/julehilsen/socialThumbnail.jpg?v=1608578595414">
+	<link rel="image_src" href="https://demo.360eiendom.no/julehilsen/socialThumbnail.jpg?v=1608579084424">
 	<meta property="og:locale" content="en"/>
 	<meta name="twitter:card" content="summary_large_image"/>
 	<meta name="twitter:title" content="Untitled 5"/>
 	<meta name="twitter:description" content="Virtual Tour"/>
 	<meta name="twitter:url" content="https://demo.360eiendom.no/julehilsen/index.html"/>
-	<meta name="twitter:image:src" content="https://demo.360eiendom.no/julehilsen/socialThumbnail.jpg?v=1608578595414"/>
+	<meta name="twitter:image:src" content="https://demo.360eiendom.no/julehilsen/socialThumbnail.jpg?v=1608579084424"/>
 	<meta name="twitter:image:width" content="1200"/>
 	<meta name="twitter:image:height" content="630"/>
 	<meta name="description" content="Virtual Tour"/>
 	<meta name="theme-color" content="#FFFFFF"/>
-    <script src="lib/tdvplayer.js?v=1608578595414"></script>
-    <script src="script.js?v=1608578595414"></script>
+    <script src="lib/tdvplayer.js?v=1608579084424"></script>
+    <script src="script.js?v=1608579084424"></script>
     <script type="text/javascript">
         (function()
         {
             var deviceType = TDV.PlayerAPI.mobile ? 'mobile' : 'general';
-            var devicesUrl = {"general":"script_general.js?v=1608578595414"};
+            var devicesUrl = {"general":"script_general.js?v=1608579084424"};
             var url = deviceType in devicesUrl ? devicesUrl[deviceType] : devicesUrl['general'];
             if(typeof url == "object") {
                 var orient = TDV.PlayerAPI.getOrientation();
@@ -62,11 +62,11 @@
 
             var settings = new TDV.PlayerSettings();
             settings.set(TDV.PlayerSettings.CONTAINER, document.getElementById('viewer'));
-            settings.set(TDV.PlayerSettings.WEBVR_POLYFILL_URL, 'lib/WebVRPolyfill.js?v=1608578595414');
-            settings.set(TDV.PlayerSettings.HLS_URL, 'lib/Hls.js?v=1608578595414');
-            settings.set(TDV.PlayerSettings.QUERY_STRING_PARAMETERS, 'v=1608578595414');
+            settings.set(TDV.PlayerSettings.WEBVR_POLYFILL_URL, 'lib/WebVRPolyfill.js?v=1608579084424');
+            settings.set(TDV.PlayerSettings.HLS_URL, 'lib/Hls.js?v=1608579084424');
+            settings.set(TDV.PlayerSettings.QUERY_STRING_PARAMETERS, 'v=1608579084424');
 
-            var devicesUrl = {"general":"script_general.js?v=1608578595414"};
+            var devicesUrl = {"general":"script_general.js?v=1608579084424"};
 
             tour = new TDV.Tour(settings, devicesUrl);
             tour.bind(TDV.Tour.EVENT_TOUR_INITIALIZED, onVirtualTourInit);
